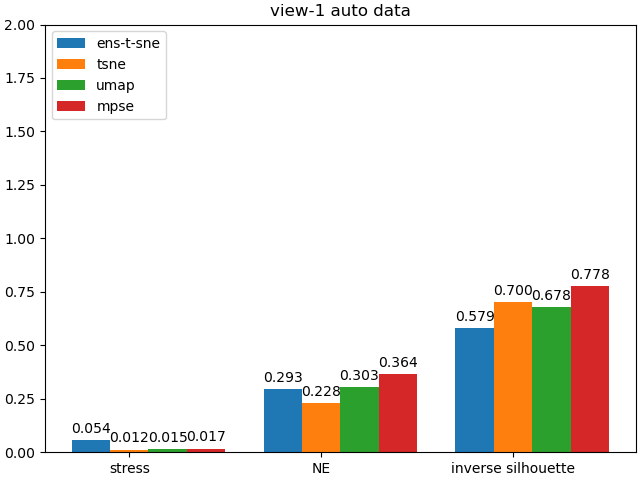
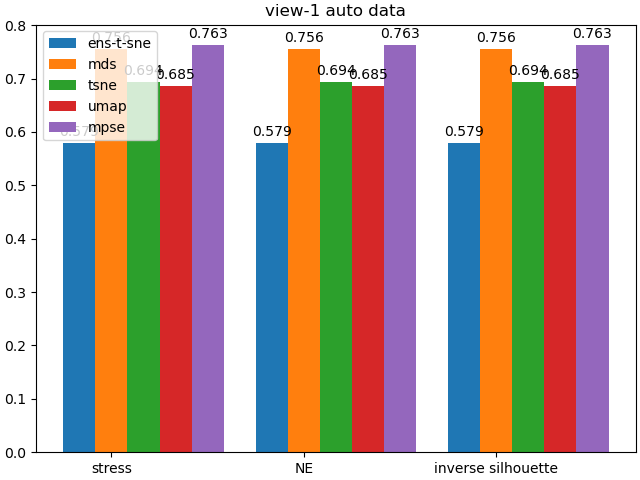
updated with new metric

diff --git a/ENS-t-SNE/metrics.py b/ENS-t-SNE/metrics.py
@@ -2,11 +2,13 @@ import numpy as np
 import math 
 from scipy.optimize import minimize_scalar
 
-def pairwise_distances(X: np.array):
-    x2 = np.sum(np.square(X), axis=1)
-    diff = np.sqrt( abs(x2.reshape(-1,1) - 2*np.dot(X,X.T) + x2 ))
-    np.fill_diagonal(diff, 0)
-    return diff
+# def pairwise_distances(X: np.array):
+#     x2 = np.sum(np.square(X), axis=1)
+#     diff = np.sqrt( abs(x2.reshape(-1,1) - 2*np.dot(X,X.T) + x2 ))
+#     np.fill_diagonal(diff, 0)
+#     return diff
+
+from sklearn.metrics import pairwise_distances
 
 def stress(X,d):
     from math import comb
@@ -20,8 +22,8 @@ def stress(X,d):
 
     from scipy.optimize import minimize_scalar
     min_a = minimize_scalar(stress)
-    print("a is ",min_a.x)
-    return stress(a=1)
+    # print("a is ",min_a.x)
+    return stress(a=min_a.x)
 
 def neighborhood_hit(X: np.array, d: np.array, k=7):
     diff = pairwise_distances(X)
@@ -61,6 +63,50 @@ def cluster_distance(H:np.array, X:np.array, y:np.array):
     dh = pairwise_distances(high_d_clusters)
     return stress(low_d_clusters,dh)    
 
+def within_class_distance_3d(data, labels):
+    unique_labels = np.unique(labels)
+    num_classes = len(unique_labels)
+    
+    within_class_distances = []
+    total_sum_distances = 0
+    
+    for label in unique_labels:
+        class_data = data[labels == label]
+        class_centroid = np.mean(class_data, axis=0)
+        class_distances = pairwise_distances(class_data, [class_centroid])
+        within_class_distances.extend(class_distances)
+        total_sum_distances += np.sum(class_distances)
+
+    within_class_distance = np.mean(within_class_distances)
+    total_sum_distance = total_sum_distances / len(labels)
+
+    print(within_class_distance, total_sum_distance)
+
+    return within_class_distance / total_sum_distance
+
+def squared_distance(point1, point2): 
+    return np.sqrt( np.sum( np.square( point2-point1 ) ) )
+
+def total_sum_of_squared_distances(data_points): 
+    print(data_points)
+    total_squared_distance = 0 
+    for i in range(len(data_points)): 
+        for j in range(i + 1, len(data_points)): 
+            total_squared_distance += squared_distance(data_points[i], data_points[j]) 
+    return total_squared_distance
+
+# def within_class_distance_3d(data, labels): 
+#     unique_labels = np.unique(labels) 
+#     num_classes = len(unique_labels) 
+#     within_class_distances = [] 
+#     for label in unique_labels: 
+#         class_data = data[labels == label] 
+#         class_centroid = np.mean(class_data, axis=0) 
+#         class_distances = pairwise_distances(class_data, [class_centroid]) 
+#         within_class_distances.extend(class_distances) 
+#     within_class_distance = np.mean(within_class_distances) 
+#     return within_class_distance
+
 def compute_all_metrics(X:np.array,d:np.array,y:np.array):
     # d = pairwise_distances(H)
     return {
@@ -73,10 +119,10 @@ def compute_all_metrics(X:np.array,d:np.array,y:np.array):
 
 def compute_all_3dmetrics(X: np.ndarray, d:np.ndarray, y:list[np.ndarray]):
     return {
-        "stress": stress(X / np.max(X,axis=0),d),
+        "stress": stress(X,d),
         "NE":     1-neighborhood_hit(X,d),
         # "kmeans": 1-kmean_acc(X,y),
-        "inverse silhouette":    sum(1-silhouette_score(X,yi) for yi in y) / len(y),
+        "within_cluster_variance":    sum(within_class_distance_3d(X,yi)  for yi in y) / len(y),
         # "CD":     cluster_distance(H,X,y)        
     }
 

diff --git a/ENS-t-SNE/viz.py b/ENS-t-SNE/viz.py
@@ -14,7 +14,7 @@ for fname in os.listdir("results/"):
 
         species = algs["ens-t-sne"].keys()
         penguin_means = { 
-                        "old-ens-t-sne": algs["old_ens"].values(),
+                        # "old-ens-t-sne": algs["old_ens"].values(),
                         "ens-t-sne": algs["ens-t-sne"].values(),
                         "mds"      : algs["mds"].values(), 
                         "tsne"   : algs["tsne"].values(), 
@@ -29,8 +29,8 @@ for fname in os.listdir("results/"):
 
         for attribute, measurement in penguin_means.items():
             offset = width * multiplier
-            measurement = list(measurement)
-            rects = ax.bar(x + offset, measurement, width, label=attribute)
+            measurement = list(measurement)[2]
+            rects = ax.bar(x + offset, measurement, width, label=attribute if attribute != "inverse silhouette" else "avg_clust_dist")
             ax.bar_label(rects, padding=3,fmt="%.3f")
             multiplier += 1
 
@@ -41,4 +41,4 @@ for fname in os.listdir("results/"):
         ax.legend(loc='upper left')
         # ax.set_ylim(0, 2)
 
-        plt.savefig(f"figs/with-old-{fname.split('.')[0]}-{view}.png")
+        plt.savefig(f"figs/{fname.split('.')[0]}-{view}.png")

diff --git a/ENS-t-SNE/eval.py b/ENS-t-SNE/eval.py
@@ -98,9 +98,9 @@ if __name__ == "__main__":
 
     funcs = [
         ["synthetic", lambda : load_clusters(300, [10,10,10], [2,3,4])],
-        ["penguins", lambda : load_penguins()],
-        ["auto", lambda: load_auto()],
-        ["food", lambda: load_food()]
+        # ["penguins", lambda : load_penguins()],
+        # ["auto", lambda: load_auto()],
+        # ["food", lambda: load_food()]
         ]
     
     for name, f in funcs:
